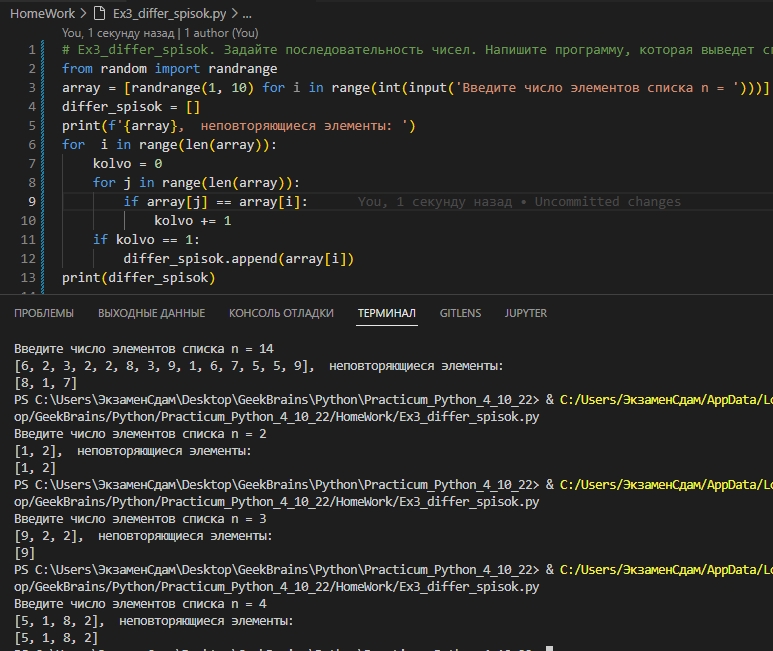
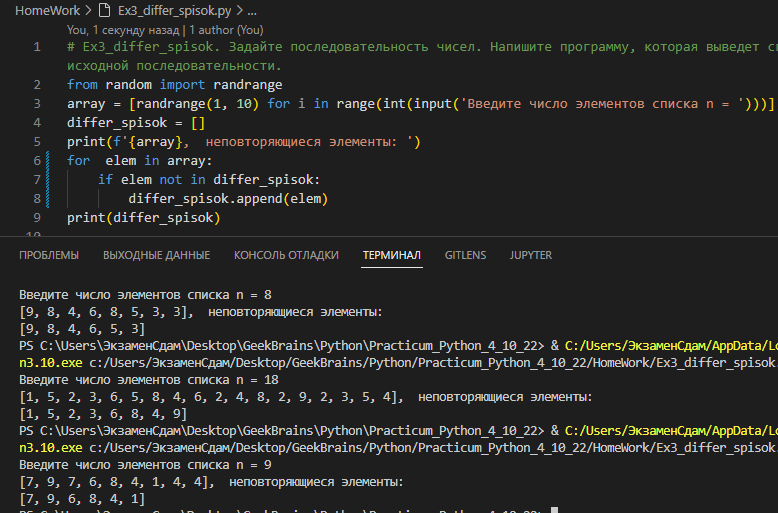
update Ex3

diff --git a/HomeWork/Ex3_differ_spisok.py b/HomeWork/Ex3_differ_spisok.py
@@ -3,28 +3,19 @@ from random import randrange
 array = [randrange(1, 10) for i in range(int(input('Введите число элементов списка n = ')))]
 differ_spisok = []
 print(f'{array},  неповторяющиеся элементы: ')
-for  i in range(len(array)):
-    kolvo = 0
-    for j in range(len(array)):
-        if array[j] == array[i]:
-            kolvo += 1
-    if kolvo == 1:
-        differ_spisok.append(array[i])
+for  elem in array:
+    if elem not in differ_spisok:
+        differ_spisok.append(elem)
 print(differ_spisok)
     
-
-
-
-
-# from itertools import count
-# from random import randrange
-# array = [randrange(1, 10) for i in range(int(input('Введите число элементов списка n = ')))]
-# print(f'{array}, а неповторяющиеся элементы: ')
-# for  i in range(len(array)-1):
-#     count = 0
-#     for j in range(len(array)-1):
+    
+    
+#     for  i in range(len(array)):
+#     kolvo = 0
+#     for j in range(len(array)):
 #         if array[j] == array[i]:
-#             count += 1
-#     if count == 1:
-#         print(array[i], end=' ')
-#     else:  break
+#             kolvo += 1
+#     if kolvo == 1:
+#         differ_spisok.append(array[i])
+# print(differ_spisok)
+    
